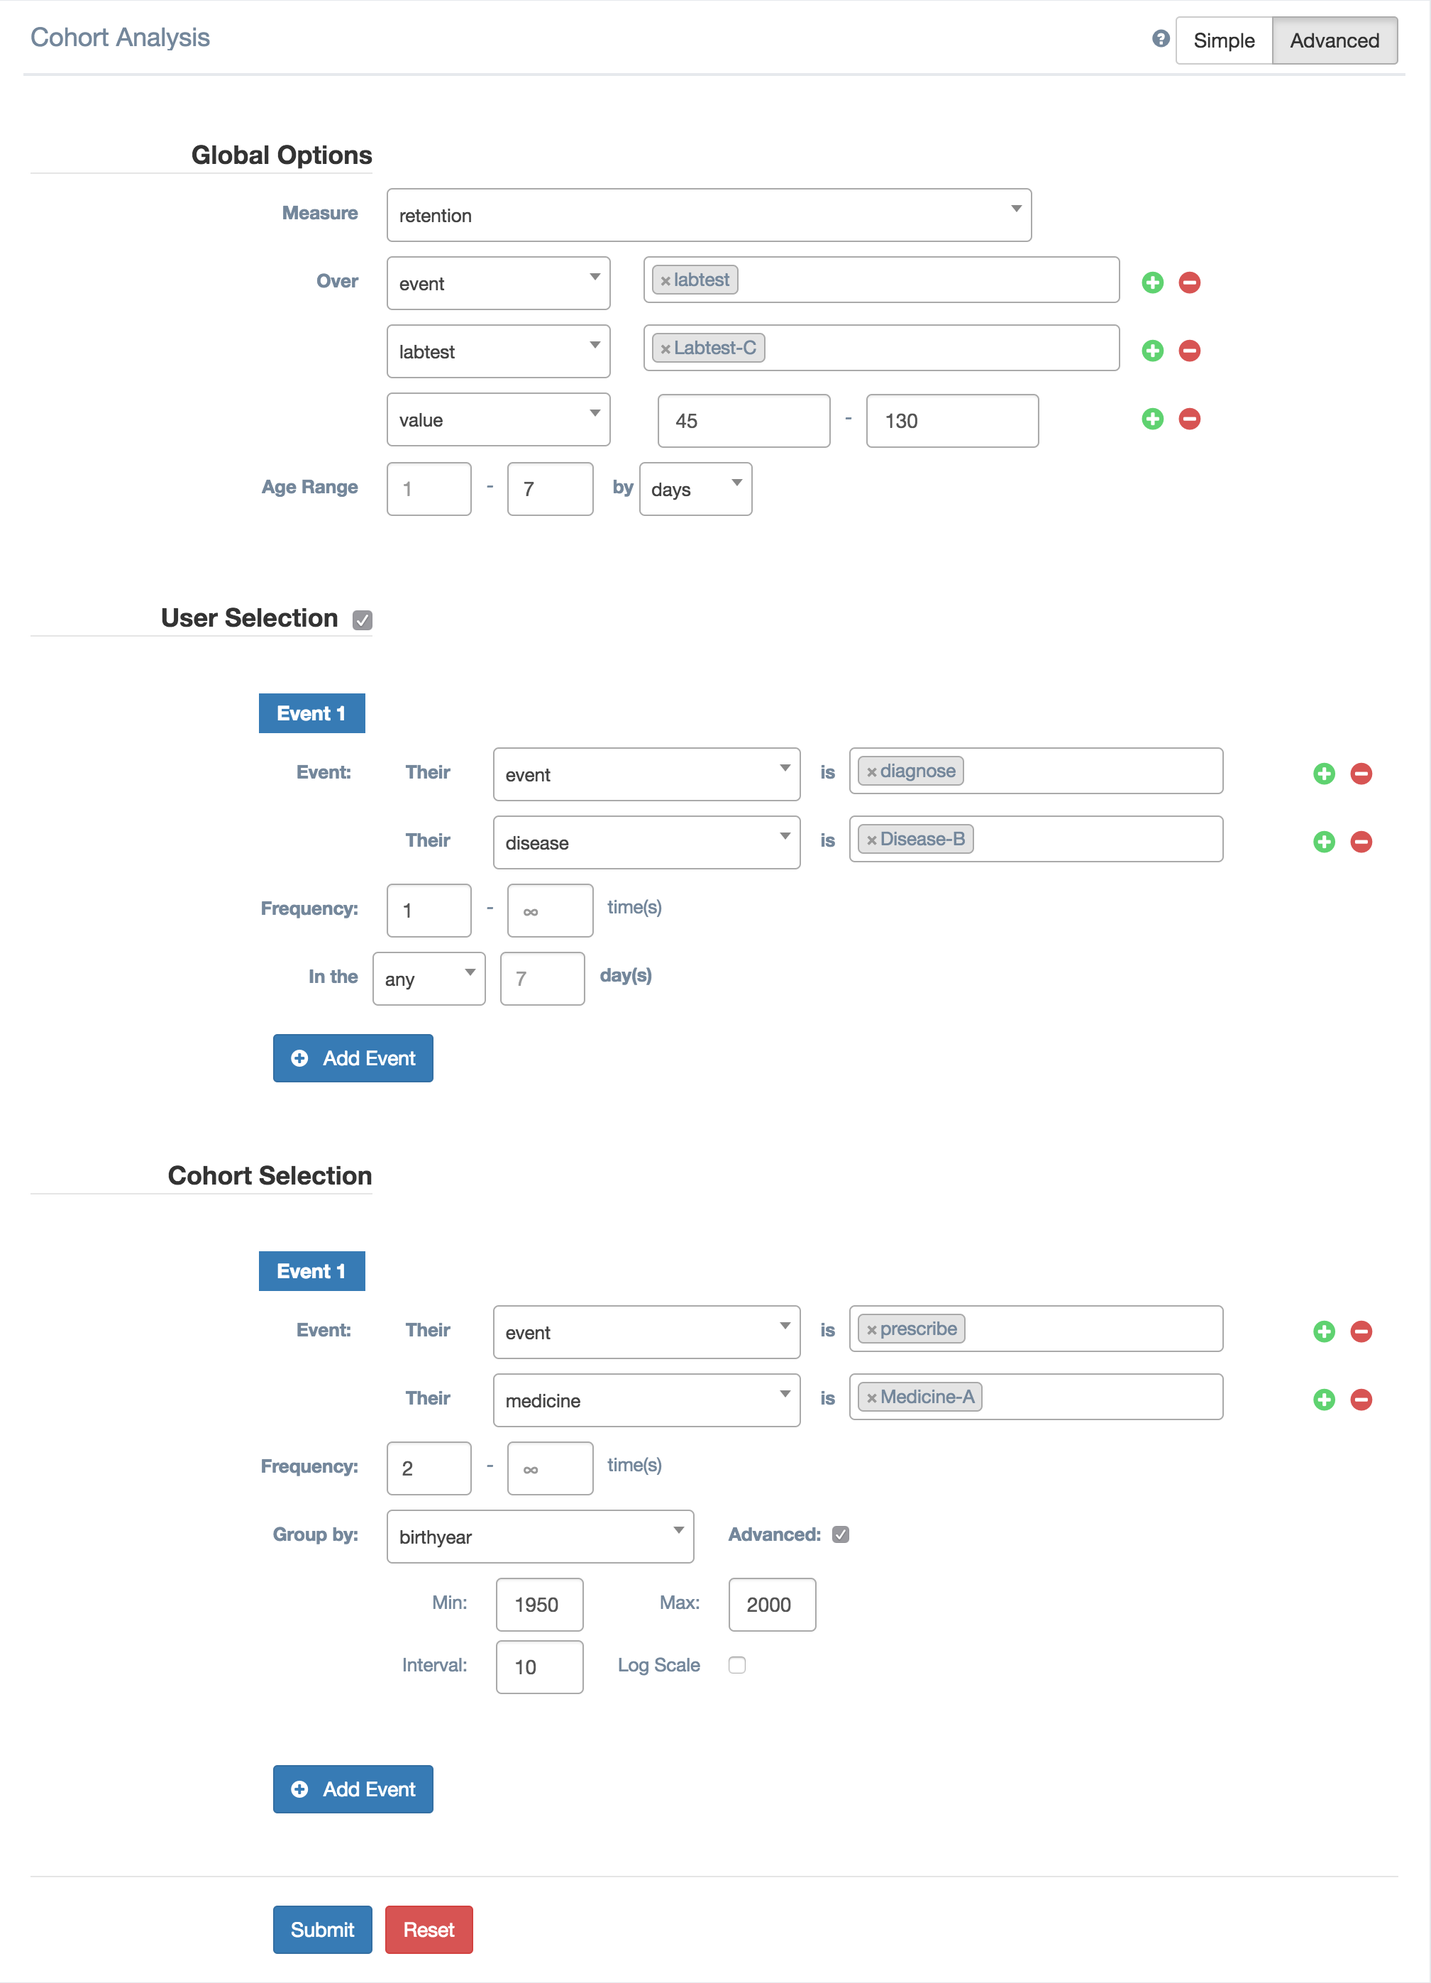
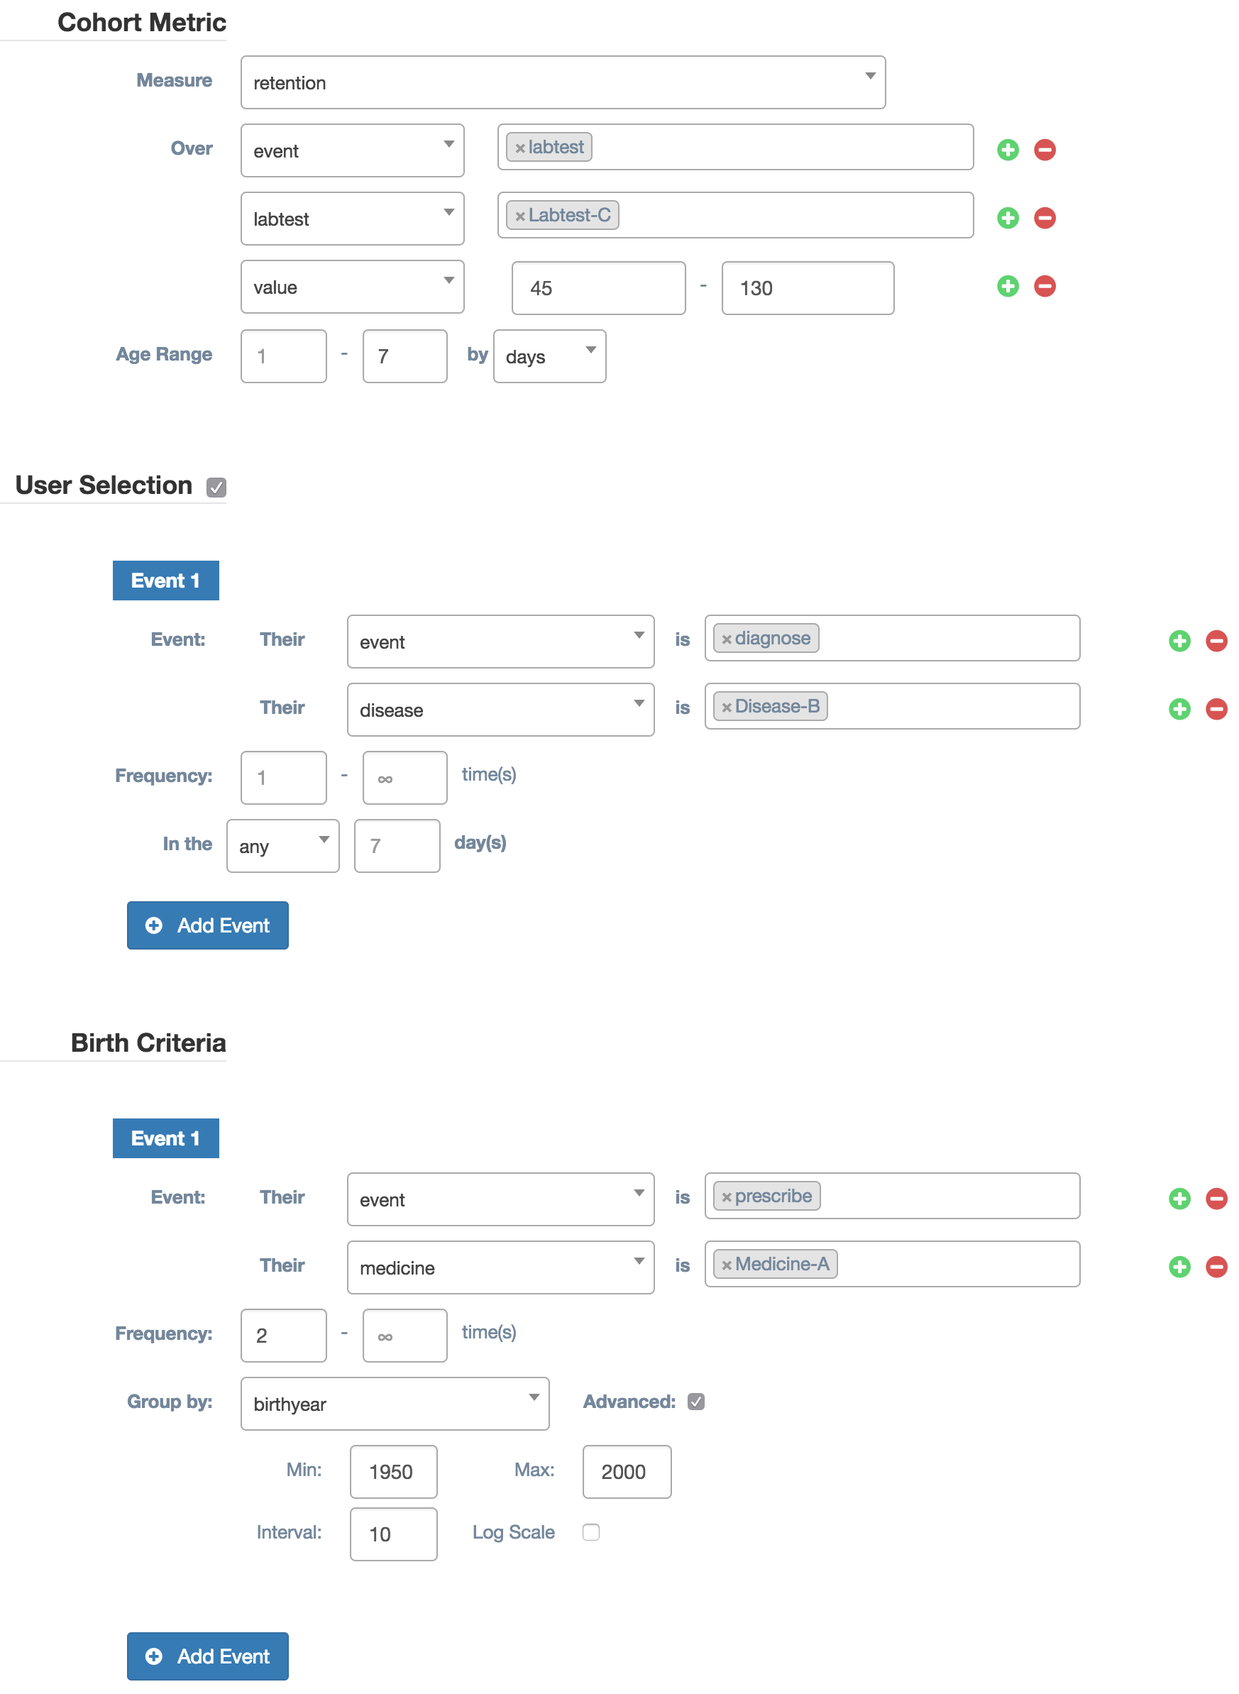
add charts

diff --git a/IEEE_Paper_LaTeX_Template_LETTER_V3.tex b/IEEE_Paper_LaTeX_Template_LETTER_V3.tex
@@ -11,6 +11,7 @@
 \usepackage{times,amsmath}
 \usepackage{multirow}
 \usepackage{graphicx}
+\usepackage{subcaption}
 \graphicspath{ {images/} }
 %
 \title{An Intuitive Tool for Cohort Analysis Systems}
@@ -73,16 +74,10 @@ However, it is both painful to specify and expensive to evaluate cohort analysis
 
 Nevertheless, fussy operation is still an obstacle on cohort analysis. Thus we develop a web-based tool on the top of cohort analysis systems to provide users intuitive and immediately practical cohort query services. Users determine the cohort analysis conditions by selecting options described in natural language on the web page interactively instead of writing cohort queries, especially helpful for those without query knowledge, and analyze the visualized results. In one word, users can insight the data swiftly, accurately, and intuitively. In our demonstration, we use Cohana as our cohort analysis engines, while any other systems can be substitute in our architecture. 
 
-In this demo paper, we will walk through the overview of our system by introducing the key concepts in the cohort analysis, and our system architecture, and then outlines our demonstrations including data preparation, cohort selection, and result visualization. The contributions we made are as followed:
-
-\begin{itemize}
-\item	We propose an interactive tool for cohort analysis which requires only intuitive selections, while provides swift and rich visualization on results.
-\item   C2
-\item   C3
-\end{itemize}
+In this demo paper, we will walk through the overview of our system by introducing the key concepts in the cohort analysis, and our system architecture, and then outlines our demonstrations including data preparation, cohort selection, and result visualization.
 
 \section{System Overview}
-In this section, we start with the three key definitions in cohort query, and then depict the overall system architecture, including the data preparation, the back-end Cohana engine, and the front-end web interface, to explain the whole process of a Cohort analysis with our tool.  
+In this section, we start with the three key definitions in cohort query, and then depict the overall system architecture, including the data preparation, the supporting Cohana engine, and our tool, to explain the whole process of a Cohort analysis with our tool.  
 
 \subsection{Query Definition}
 As discussed in the previous section, a typical Cohort analysis requires defining \textbf{cohort}, \textbf{birth and age}, and \textbf{aggregation}. 
@@ -97,26 +92,65 @@ As discussed in the previous section, a typical Cohort analysis requires definin
 
 \begin{figure}
     \centering
-    \includegraphics[width=0.4\textwidth]{arch.png}
+    \includegraphics[width=0.4\textwidth]{arch_tool.png}
     \caption{System Architecture}
     \label{fig:sys_arch}
 \end{figure}
 
-Figure \ref{fig:sys_arch} outlines the architecture including three components, i.e., data, Cohana engine and web interface, along with data flow among the components.
+Figure \ref{fig:sys_arch} outlines the architecture including three components, i.e., data, Cohana engine and our tool, along with data flow among the components.
 
 The only data we required is a CSV file of user activity records, including indispensable columns of User ID, event, and time for a cohort definition. The dataset should be sorted by user id, and the records for a single user are sorted chronologically, which facilitates finding the birth activity tuple. It is a ubiquitous format for data analysis, especially for cohort analysis, and reasonably simple to achieve once and for all.
 
 The Cohana engine consists of parser, catalog, query executor and storage manager, wherein the last two are the cores to support efficient cohort queries. The storage manager applies a chunking scheme and a series of compression techniques. To be more specific, we partition the data into chunks horizontally where every chunk stores precisely activity tuples of one user. Afterwards, different compression schemes are employed on columns regarding their types, i.e., Run-Length-Encoding for user identity column, two-level compression in global and chunk respectively for string column and delta encoding scheme for integer column. On the other hand, the query executor generates a logical query plan in the form of operator tree from the original cohort query and optimize by birth selections. After being executed on each data chunk in the storage manager, the query plan merges and presents the results.
 
-The web interface, implemented under Django framework, is responsible for all user interactions such as loading data, composing queries, and displaying visualized results. As long as the user specifies the dataset, the web interface will send it to the Cohana engine and extract the column information for options in cohort analysis. The web interface structures the birth event, cohort selection, and age in a natural-language way, such that users can map their requirements into the options with ease. After that, the options selected are translated into JSON file in the format requested by Cohana engine. Finally, the result is sent back, parsed and visualized on the web page.
+The tool for cohort analysis systems, implemented under Django framework, is responsible for all front-end user interactions such as loading data, composing queries, and displaying visualized results, and back-end data connections and operations such as communicating with cohort analysis engines. As long as the user specifies the dataset on the web interface, the tool will compose and send it to the Cohana engine, and extract the column information for options in cohort analysis page. The tool structures the birth event, cohort selection, and age in a natural-language way, such that users can map their requirements into the options with ease. After that, the options selected are translated into JSON file in the format requested by Cohana engine. Finally, the result is sent back, parsed and visualized on the web page.
 
 \section{Demonstration Outlines}
 
-We will walk through the whole system on the medical example in the Introduction section to illustrate the usage of the web interface for cohort analysis. It's worth mentioning that though it is an example in medical area, such analysis is common in any domain and could be elegantly handled by our system.
+We will walk through the whole system on the medical example in the Introduction section to illustrate the usage of our tool for cohort analysis. It's worth mentioning that an example in medical area though it is, such analysis is common in any domain and could be elegantly handled by our tool.
 
 \subsection{Data Preparation}
 
-For the sake of confidentiality, the data we use for the demo are generated according to the schema of real health care data, while complying with the distributions in the original one to be as representative as possible. We have eight columns in the CSV dataset, i.e., id, \emph{birthyear, event, disease, medicine, labtest, value, and time}. \emph{id} is a unique identifier for each patient, and \emph{birthyear} and \emph{time} are unambiguous. The three options---diagnose, prescribe and labtest---in the \emph{event} column state the actions of users, while the \emph{disease}, \emph{medicine}, and \emph{labtest} columns specify details for them respectively. The \emph{disease} column contains a particular code for the illness diagnosed when admitted if the \emph{event} is diagnose, or a default value otherwise. When a patient is in the hospital for more than one day, he might have only one record of diagnose for the whole visit. The \emph{medicine} column indicates the prescription issued to the patient and surely might not cover all days during his visit. The \emph{labtest} means the type of test patients take and the \emph{value} declares the integral test result. For example, the patient P-0 was admitted to the hospital on 1st January 2012, diagnosed with Disease-E, prescribed Medicine-A, and got 34 on Labtest-E. On the next day, he was reissued Medicine-A and got 35 on the lab test. We notice the redundancy in the records, but it is common in tables integrated by many sub-tables, and the storage manager in our Cohana engine will compress them intelligently to assure low storage consumption and high query efficiency, provided the User ID, event and time columns.
+For the sake of confidentiality, the data we use for the demo are generated according to the schema of real health care data, while complying with the distributions in the original one to be as representative as possible. We have eight columns in the CSV dataset, i.e., \emph{id, birthyear, event, disease, medicine, labtest, value, and time}. \emph{id} is a unique identifier for each patient, and \emph{birthyear} and \emph{time} are unambiguous. The three options---diagnose, prescribe and labtest---in the \emph{event} column state the actions of users, while the \emph{disease}, \emph{medicine}, and \emph{labtest} columns specify details for them respectively. The \emph{disease} column contains a particular code for the illness diagnosed when a patient is admitted if the \emph{event} is diagnose, or a default value otherwise. When a patient is in the hospital for more than one day, he might have only one record of diagnose for the whole visit. The \emph{medicine} column indicates the prescription issued to the patient and surely might not cover all days during his visit. The \emph{labtest} means the type of test patients take and the \emph{value} declares the integral test result. For example, \ref{fig:upload} shows that the patient P-0 was admitted to the hospital on 1st January 2012, diagnosed with Disease-B, prescribed Medicine-C, and got 44 on Labtest-C. On the next day, he got 25 on the same lab test. We notice the redundancy in the records, but it is common for applications wherein tables integrated by many sub-tables, and the storage manager in the Cohana engine will compress them intelligently to assure low storage consumption and high query efficiency, provided the User ID, event and time columns.
+
+% \begin{figure}
+% \begin{subfigure}{.5\textwidth}
+%   \centering
+%   \includegraphics[width=.8\linewidth]{image1}
+%   \caption{1a}
+%   \label{fig:sfig1}
+% \end{subfigure}%
+% \begin{subfigure}{.5\textwidth}
+%   \centering
+%   \includegraphics[width=.8\linewidth]{image2}
+%   \caption{1b}
+%   \label{fig:sfig2}
+% \end{subfigure}
+% \caption{plots of....}
+% \label{fig:fig}
+% \end{figure}
+
+\begin{figure*}
+\begin{subfigure}{0.3\textwidth}
+    \centering
+    \includegraphics[width=0.9\linewidth]{upload_all_vertical.png}
+    \caption{Data Upload}
+    \label{fig:upload}
+\end{subfigure}%
+\begin{subfigure}{0.4\textwidth}
+    \centering
+    \includegraphics[width=0.9\linewidth]{query.png}
+    \caption{Cohort Selection}
+    \label{fig:cohort}
+\end{subfigure}%
+\begin{subfigure}{0.3\textwidth}
+    \centering
+    \includegraphics[width=0.9\linewidth]{chart.png}
+    \caption{Result Visualization}
+    \label{fig:visual}
+\end{subfigure}%
+\caption{Web Interface}
+\end{figure*}
 
 \begin{table}[h!]
 \begin{center}
@@ -158,24 +192,24 @@ For the sake of confidentiality, the data we use for the demo are generated acco
 \label{table:metrics}
 \end{table}
 
-The first step we need to do on the web page is to upload the CSV file and specify the schema and metrics as shown in Figure \ref{??}. The descriptions for options of schema and metrics are shown in \ref{table:schema} and \ref{table:metrics}. Obviously, we choose RETENTION for our metrics for the problem, meaning the number of patients eligible in each cohort and age since their birth. Of course we can choose COUNT on labtest if we want to count the number of abnormal values, or SUM if we need to inspect the exact abnormal values. The tool allows assigning multiple metrics. As long as the Cohana engine receives the file and specification, the web page navigates us to the Cohort Analysis page where options are equipped with the content in the records.
+The first step we need to do on the web page is to upload the CSV file and specify the schema and metrics as shown in Figure \ref{fig:upload}. The descriptions for options of schema and metrics are shown in \ref{table:schema} and \ref{table:metrics}. Obviously, we choose RETENTION for our metrics for the problem, meaning the number of patients eligible in each cohort and age since their birth. Of course we can choose COUNT on labtest if we want to count the number of abnormal values, or SUM if we need to inspect the exact abnormal values. The tool allows assigning multiple metrics. As long as the Cohana engine receives the file and specification, the web page navigates us to the Cohort Analysis page where options are equipped with the content in the records.
 
 \subsection{Cohort Selection}
 
-\begin{figure}
-    \centering
-    \includegraphics[width=0.45\textwidth]{query.png}
-    \caption{Cohort Selection}
-    \label{fig:query}
-\end{figure}
+% \begin{figure}
+%     \centering
+%     \includegraphics[width=0.45\textwidth]{query.png}
+%     \caption{Cohort Selection}
+%     \label{fig:query}
+% \end{figure}
 
 According to the example, 1) we consider only patients who have disease B; 2) the birth event is taking medicine A two times; 3) the age is one day; 4) we aggregate by the count of abnormal values in lab-test C since birth. Following the decomposition of the requirement, the only thing we need to do is to fit the sub-requirements into our cohort options on the web page. 
 
-In the Cohort Metrics, we measure the \emph{retention} defined in the last step over \emph{event is labtest} and \emph{labtest is Labtest-C} that \emph{valued 45 to 130} where \emph{age range is 1 to 7 days}. The age range settles the period we investigate after users' birth, i.e., small range for short-term effect and large range for long-term effect. The next selection is on user which can be unchecked if we conduct on all users. Under our context, we choose \emph{Their event is diagnose} and \emph{Their disease is Disease-B} while leaving the frequency with the default value in \emph{any 7 days}. We can cast more constraints on the records, such as \emph{Their time is 2015-01-01 - 2015-12-31} to analyze the data in 2015 only, by ticking the \textbf{+} button on the right. In the Birth Criteria, we realize the birth event by selecting \emph{Their event is prescribe} and \emph{Their medicine is Medicine-A} and the frequency to be \emph{2-$\infty$ times}. If multiple birth events are assigned by ticking the \textbf{+} button, a patient is regarded born only when all the birth events are met. Finally we \emph{Group by birthyear} in the range of \emph{1950 to 2000 scaled 10}, meaning we group the patients by decade.
+As dipected in \ref{fig:cohort}, in the Cohort Metrics, we measure the \emph{retention} defined in the last step over \emph{event is labtest} and \emph{labtest is Labtest-C} that \emph{valued 45 to 130} where \emph{age range is 1 to 7 days}. The age range settles the period we investigate after users' birth, i.e., small range for short-term effect and large range for long-term effect. The next selection is on user which can be unchecked if we conduct on all users. Under our context, we choose \emph{Their event is diagnose} and \emph{Their disease is Disease-B} while leaving the frequency with the default value in \emph{any 7 days}. We can cast more constraints on the records, such as \emph{Their time is 2015-01-01 - 2015-12-31} to analyze the data in 2015 only, by ticking the \textbf{+} button on the right. In the Birth Criteria, we realize the birth event by selecting \emph{Their event is prescribe} and \emph{Their medicine is Medicine-A} and the frequency to be \emph{2-$\infty$ times}. If multiple birth events are assigned by ticking the \textbf{+} button, a patient is regarded born only when all the birth events are met. Finally we \emph{Group by birthyear} in the range of \emph{1950 to 2000 scaled 10}, meaning we group the patients by decade.
 
 \subsection{Result Visualization}
 
-Within seconds of submitting the requirement, a line chart and a heatmap chart of cohort analysis result will be displayed under the cohort options. In the line chart, the x-axis represents the \emph{age} of patients since birth——--days after taking two times of Medicine A in our context---and y-axis represents the aggregated result, i.e., the number of patients detected abnormal in the Labtest-C. Values of age 0 are the numbers of patients born. Each line stands for a group of patients in the different birth years. The line chart, answering the cohort query numerically, not only illustrates the trend of user behavior in various groups along the time but offers a sharp contrast of behavior among groups. The other 2-D heatmap chart is axised with age and group. Each block in the chart accounts for the proportion of patients living up to the cohort conditions in that group and age compared to those when born. The first column, on behalf of age 0, is sure to value 100\%. The blocks with different color depths give spontaneous expression to the relationship between age and user behavior and may indicate deeper insights on the user behavior of the different groups. The two charts explain the data in absolute and relative way respectively. For example, more young patients are active on the side effect, suggested by the high values in the line chart, while elder patients take longer to be accustomed to medicine as the color retains deep in the heatmap chart.
+Within seconds of submitting the requirement, a line chart and a heatmap chart of cohort analysis result (\ref{fig:visual}) will be displayed under the cohort options. In the line chart, the x-axis represents the \emph{age} of patients since birth——--days after taking two times of Medicine A in our context---and y-axis represents the aggregated result, i.e., the number of patients detected abnormal in the Labtest-C. Values of age 0 are the numbers of patients born. Each line stands for a group of patients in the different birth years. The line chart, answering the cohort query numerically, not only illustrates the trend of user behavior in various groups along the time but offers a sharp contrast of behavior among groups. The other 2-D heatmap chart is axised with age and group. Each block in the chart accounts for the proportion of patients living up to the cohort conditions in that group and age compared to those when born. The first column, on behalf of age 0, is sure to value 100\%. The blocks with different color depths give spontaneous expression to the relationship between age and user behavior and may indicate deeper insights on the user behavior of the different groups. The two charts explain the data in absolute and relative way respectively. For example, more young patients are active on the side effect, suggested by the high values in the line chart, while elder patients take longer to be accustomed to medicine as the color retains deep in the heatmap chart.
 
 What's more, we provide a wide variety of operations on the chart such as zooming in and changing the chart type, as shown in the toolbar above the chart, with the help of a third-party library. These functions afford immediate responses to visualization exploration, helpful for further data excavation.
 
